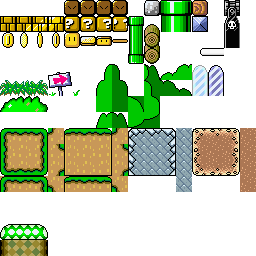
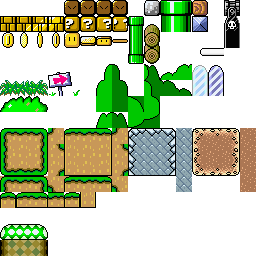
fix visual issues

Changed region(s): [[0.0, 0.75, 0.375, 0.8125]]

diff --git a/smb/code/levelGenerator.js b/smb/code/levelGenerator.js
@@ -31,22 +31,28 @@ Mario.LevelGenerator.prototype.CreateLevel = function() {
             x = col
             y = row
             // console.log(char + " " + x + "/" + this.Width + " , " + y + "/" + this.Height)
-            if (char == "X" && y != this.Height - 2){
+                        if (char == "X" && y != this.Height - 2){
                 
-                if (rows[row][col-1] != "X"){
-                    level.SetBlock(x, y, 8 * 16 + 4);
+                if (rows[row][col-1] != "X" && rows[row][col+1] != "X"){
+                    level.SetBlock(x, y, 12 * 16 + 4);
+                }
+                else if (rows[row][col-1] != "X"){
+                    level.SetBlock(x, y, 12 * 16 + 1);
                 }
                 else if (rows[row][col+1] != "X"){
-                    level.SetBlock(x, y, 8 * 16 + 6);
+                    level.SetBlock(x, y, 12 * 16 + 2);
                 }
                 else {
-                    level.SetBlock(x, y, 8 * 16 + 5);
+                    level.SetBlock(x, y, 12 * 16 + 3);
                 }
             }
 
             if (char == "X" && y == this.Height - 2){
-                
-                if (rows[row][col-1] != "X"){
+                if (rows[row][col-1] != "X" && rows[row][col+1] != "X"){
+                    level.SetBlock(x, y, 12 * 16 + 0);
+                    level.SetBlock(x, this.Height - 1, 12 * 16 + 5); 
+                }
+                else if (rows[row][col-1] != "X"){
                     level.SetBlock(x, y, 8 * 16 + 4);
                     level.SetBlock(x, this.Height - 1, 10 * 16 + 4); 
                 }
@@ -59,11 +65,19 @@ Mario.LevelGenerator.prototype.CreateLevel = function() {
                     level.SetBlock(x, this.Height - 1, 10 * 16 + 5); 
                 }
             }
-            else if (char == "<"){
+            else if (char == "<" && y != this.Height - 2){
                 level.SetBlock(x, y, 0 * 16 + 10);
             }
-            else if (char == ">"){
+            else if (char == ">" && y != this.Height - 2){
                 level.SetBlock(x, y, 0 * 16 + 11);
+            }
+            else if (char == "<" && y == this.Height - 2){
+                level.SetBlock(x, y, 0 * 16 + 10);
+                level.SetBlock(x, this.Height - 1, 1 * 16 + 10); 
+            }
+            else if (char == ">" && y == this.Height - 2){
+                level.SetBlock(x, y, 0 * 16 + 11);
+                level.SetBlock(x, this.Height - 1, 1 * 16 + 11); 
             }
             else if (char == "["){
                 level.SetBlock(x, y, 1 * 16 + 10);
